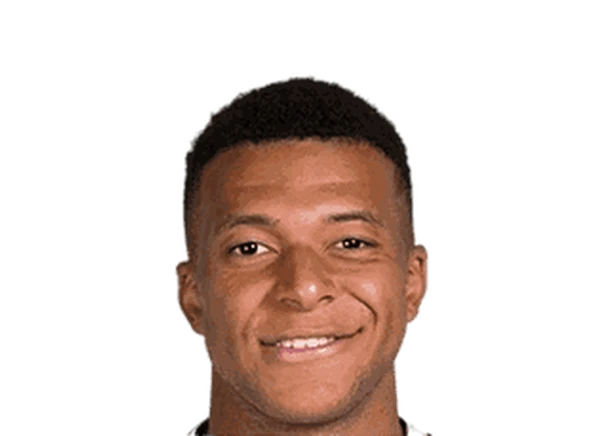
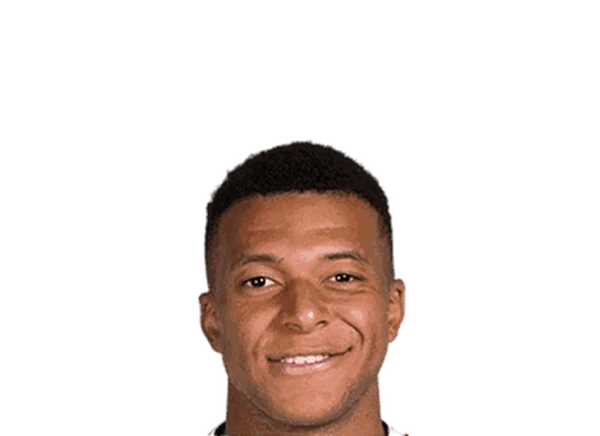
Soccer Home cards: faces framed a little smaller; Messi's FotMob photo so the six match; Beckham for Kane

Changed region(s): [[0.27, 0.1789, 0.72, 1.0], [0.48, 0.9243, 0.54, 0.9839]]

diff --git a/src/components/SoccerApp.jsx b/src/components/SoccerApp.jsx
@@ -143,11 +143,11 @@ const calcOvr = (b, types) => Math.round(SoccerSim.calcSoccerOVR?.(b, types) ?? 
 const archOf = (ovr, b, types) => (SoccerSim.getSoccerArchetype ?? soccerArchetype)(ovr, b, types)
 
 // Home's pool cards: three stars each. ESPN has no photo for most of them, so these cards (only these) use FotMob's
-// studio photos, framed like ESPN's (public/headshots/soccer/fm-<FotMob id>.webp); Messi keeps his ESPN photo
+// studio photos, framed like ESPN's, a little smaller (public/headshots/soccer/fm-<FotMob id>.webp: 300px on 600x436), Messi's too so the six match
 // (the owner, 2026-11-25). The middle face is the big one.
 const FACE_PICKS = {
   current: [['Lamine Yamal', 'soccer/fm-1467236'], ['Erling Haaland', 'soccer/fm-737066'], ['Kylian Mbappé', 'soccer/fm-701154']],
-  alltime: [['Cristiano Ronaldo', 'soccer/fm-30893'], ['Lionel Messi', null], ['Harry Kane', 'soccer/fm-194165']],
+  alltime: [['Cristiano Ronaldo', 'soccer/fm-30893'], ['Lionel Messi', 'soccer/fm-30981'], ['David Beckham', 'soccer/fm-30612']],
 }
 const HOME_FACES = Object.fromEntries(['current', 'alltime'].map(k => [k, FACE_PICKS[k].map(([n, id]) => {
   const p = POOL_PLAYERS[k].find(p => p.name === n)
